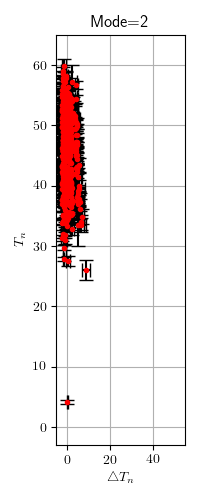
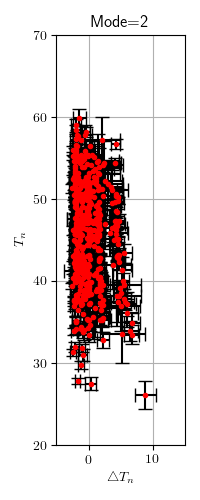
debug

diff --git a/private/Vasiliev/plot_mods_and_temperatures.py b/private/Vasiliev/plot_mods_and_temperatures.py
@@ -27,19 +27,30 @@ outpath = "../../plots/mode"
 colors=['tab:blue', 'tab:orange', 'tab:green', 'tab:red', 'tab:purple', 'tab:brown', 'tab:pink', 'tab:gray', 'tab:olive', 'tab:cyan']
 for currentMode in range(0, 5):
 	fig, ax = plt.subplots(figsize=(2, 5))
-	Tvals = np.empty(10)
-	difTvals = np.empty(10)
-	for i in range(0, (np.size(Mode)-1)): 
+	Tvals = np.zeros(10)
+	difTvals = np.zeros(10)
+	# print("######################################################")
+	# print(currentMode)
+	# print("######################################################")
+	for i in range(0, (np.size(Mode))-1): 
 		if (currentMode == Mode[i]):
 			Tvals = np.vstack((Tvals, T[i,:]))
+			# print(difTvals)
 			difTvals = np.vstack((difTvals, T[i+1,:] - T[i,:]))
+			# print(currentMode, np.round(np.abs(T[i+1,0] - T[i,0]), decimals=1))
+			# print(currentMode, np.round(Tvals[:, 0], decimals=1))
+	# print(currentMode, np.round(Tvals[:, 0], decimals=1))
+	difTvals = difTvals[1:,:]
+	Tvals = Tvals[1:,:]
+	# print(currentMode, np.round(Tvals[:, 0], decimals=1))
 	for block in range(0, 10):
 		ax.scatter(difTvals[block,:], Tvals[block,:], marker='o', color=colors[block])
 	plt.grid()
 	plt.title(r'Mode='+str(currentMode))
 	plt.ylabel(r'$T_n$')
 	plt.xlabel(r'$\triangle T_n$')
-	plt.ylim(-3, 63)
+	plt.ylim(20, 70)
+	plt.xlim(-8, 8)
 	ax.xaxis.grid(b=True, which='both')
 	ax.yaxis.grid(b=True, which='both')
 	plt.tight_layout()
@@ -50,12 +61,14 @@ for currentMode in range(0, 5):
 
 for currentMode in range(0, 5):
 	fig, ax = plt.subplots(figsize=(2, 5))
-	Tvals = np.empty(10)
-	difTvals = np.empty(10)
+	Tvals = np.zeros(10)
+	difTvals = np.zeros(10)
 	for i in range(0, (np.size(Mode)-1)): 
 		if (currentMode == Mode[i]):
 			Tvals = np.vstack((Tvals, T[i,:]))
 			difTvals = np.vstack((difTvals, T[i+1,:] - T[i,:]))
+	difTvals = difTvals[1:,:]
+	Tvals = Tvals[1:,:]
 
 	avrgTvals = np.mean(Tvals, axis=1)
 	avrgdifTvals = np.mean(difTvals, axis=1)
@@ -71,8 +84,8 @@ for currentMode in range(0, 5):
 	plt.title(r'Mode='+str(currentMode))
 	plt.ylabel(r'$T_n$')
 	plt.xlabel(r'$\triangle T_n$')
-	plt.ylim(-3, 65)
-	plt.xlim(-5, 55)
+	plt.ylim(20, 70)
+	plt.xlim(-5, 15)
 	ax.xaxis.grid(b=True, which='both')
 	ax.yaxis.grid(b=True, which='both')
 	plt.tight_layout()
